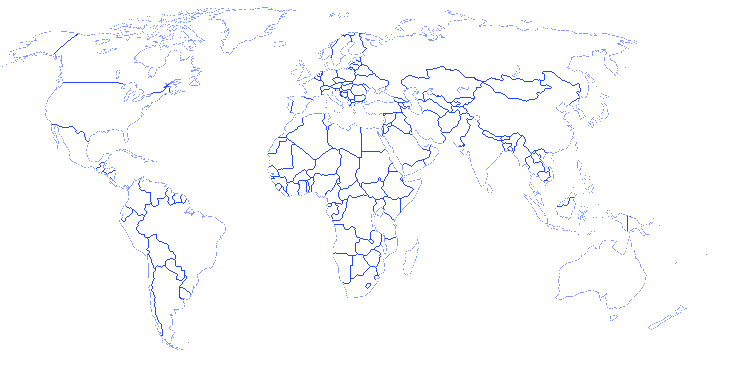
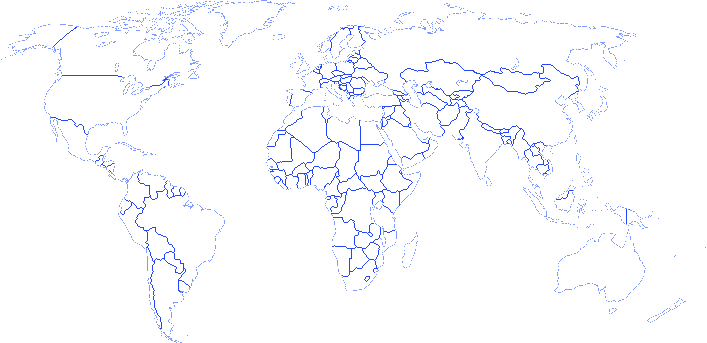
map transition and small adjustments

diff --git a/src/lib/types/Member.ts b/src/lib/types/Member.ts
@@ -20,7 +20,7 @@ export const Members: Member[] = [
 		description:
 			'Hello! This is a test for the about section on the team page! I hope it works nicely!! 😅😅😅',
 		avatar: 'https://i.imgur.com/fTkU0Nv.png',
-		point: { x: 352, y: 38 },
+		point: { x: 352, y: 31 },
 		country: Countries.Finland,
 		roles: {
 			Programmer: [
@@ -53,7 +53,7 @@ export const Members: Member[] = [
 	// Luke
 	{
 		name: 'Luke',
-		point: { x: 303, y: 64 },
+		point: { x: 303, y: 57 },
 		country: Countries.UK
 	},
 
@@ -63,7 +63,7 @@ export const Members: Member[] = [
 		description:
 			"I have obesity, I have depression, I have hypertension, I beat my ex-wife, I got no work history, and I'm a felon in the state of Arkansas...",
 		avatar: 'https://avatars.githubusercontent.com/u/59583743?v=4',
-		point: { x: 338, y: 94 },
+		point: { x: 338, y: 87 },
 		country: Countries.Italy,
 		roles: {
 			Programmer: [Languages.CSharp, Languages.LUA, Languages.CSS, Languages.HTML],
@@ -93,28 +93,28 @@ export const Members: Member[] = [
 	// Grodbert
 	{
 		name: 'Grodbert',
-		point: { x: 328, y: 85 },
+		point: { x: 328, y: 78 },
 		country: Countries.Italy
 	},
 
 	// rndtrash
 	{
 		name: 'rndtrash',
-		point: { x: 389, y: 81 },
+		point: { x: 389, y: 74 },
 		country: Countries.Russia
 	},
 
 	// wheatleymf
 	{
 		name: 'wheatleymf',
-		point: { x: 365, y: 45 },
+		point: { x: 365, y: 38 },
 		country: Countries.Russia
 	},
 
 	// Mungus
 	{
 		name: 'Mungus',
-		point: { x: 325, y: 55 },
+		point: { x: 325, y: 48 },
 		country: Countries.Denmark
 	},
 
@@ -123,7 +123,7 @@ export const Members: Member[] = [
 		name: 'matek',
 		avatar: '/team/profiles/matek.jpg',
 		description: 'I wrote my own fucking compiler',
-		point: { x: 145, y: 82 },
+		point: { x: 145, y: 75 },
 		country: Countries.Poland,
 		roles: {
 			Programmer: [Languages.CPP, Languages.CSharp, Languages.JS, Languages.Java, Languages.Python],
@@ -144,14 +144,14 @@ export const Members: Member[] = [
 	// CyberAgent
 	{
 		name: 'CyberAgent',
-		point: { x: 146, y: 94 },
+		point: { x: 146, y: 86 },
 		country: Countries.US
 	},
 
 	// gio
 	{
 		name: 'gio',
-		point: { x: 561, y: 280 },
+		point: { x: 561, y: 273 },
 		country: Countries.Australia
 	}
 ];

diff --git a/src/routes/team/+page.svelte b/src/routes/team/+page.svelte
@@ -1,7 +1,7 @@
 <script lang="ts">
 	import { Members, type Member } from '$lib/types/Member';
 	import { panzoom, type Options, type Point } from '$lib/map/PanZoom';
-	import { fly } from 'svelte/transition';
+	import { fly, scale } from 'svelte/transition';
 	import { quadInOut } from 'svelte/easing';
 	import MemberCard from '$lib/components/MemberCard.svelte';
 
@@ -163,15 +163,18 @@
 </script>
 
 <div class="h-screen w-full overflow-hidden">
-	{#await promise then options}
-		<canvas
-			bind:this={canvas}
-			on:pointerdown={onPointerClick}
-			on:pointermove={onPointerMove}
-			use:panzoom={options}
-			class="bg-[url('/team/pxgrid.png')] h-full w-full z-50"
-		/>
-	{/await}
+	<div class="bg-[url('/team/pxgrid.png')] h-full w-full scroll">
+		{#await promise then options}
+			<canvas
+				bind:this={canvas}
+				on:pointerdown={onPointerClick}
+				on:pointermove={onPointerMove}
+				in:scale={{ duration: 1500, easing: quadInOut, opacity: 0.5 }}
+				use:panzoom={options}
+				class="h-full w-full z-50"
+			/>
+		{/await}
+	</div>
 
 	<!-- This is a bit shit, feel free to improve! -->
 	{#if member}
@@ -203,6 +206,9 @@
 
 	canvas {
 		box-sizing: border-box;
+	}
+
+	.scroll {
 		animation: scroll;
 		animation-duration: 60s;
 		animation-iteration-count: infinite;

diff --git a/src/lib/components/ProjectCard.svelte b/src/lib/components/ProjectCard.svelte
@@ -16,7 +16,9 @@
 	<p class="mt-5 text-xl w-3/4">Contributors</p>
 	<div class="flex-row">
 		{#each project.contributors as contributor}
-			<a href="/" class="[&:not(:last-child)]:after:content-[','] mr-2 last:mr-0">{contributor}</a>
+			<a href="/team#{contributor}" class="[&:not(:last-child)]:after:content-[','] mr-2 last:mr-0"
+				>{contributor}</a
+			>
 		{/each}
 	</div>
 </div>
